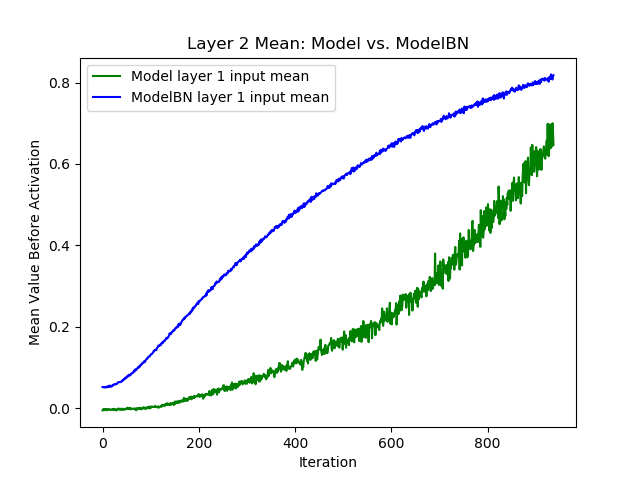
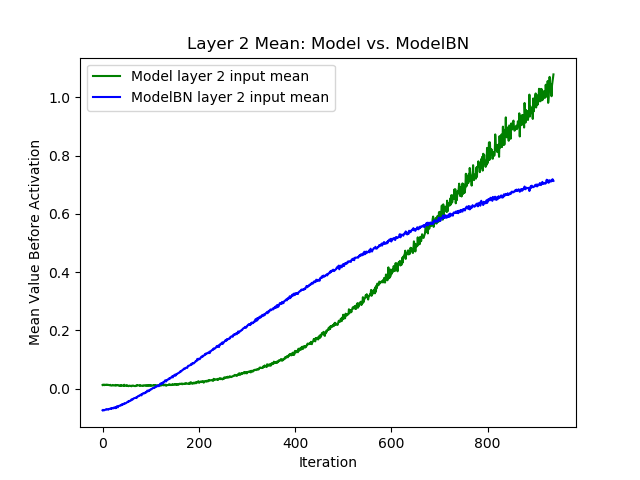
Fix legend on plot.

diff --git a/batch-norm/bn/run.py b/batch-norm/bn/run.py
@@ -19,8 +19,8 @@ plt.savefig('imgs/l1_mean.png')
 plt.close()
 
 # plot layer 2
-plt.plot(l2_mean, 'g', label='%s layer 1 input mean' % model_type)
-plt.plot(l2_mean_bn, 'b', label='%s layer 1 input mean' % model_type_bn)
+plt.plot(l2_mean, 'g', label='%s layer 2 input mean' % model_type)
+plt.plot(l2_mean_bn, 'b', label='%s layer 2 input mean' % model_type_bn)
 plt.title('Layer 2 Mean: %s vs. %s' % (model_type, model_type_bn))
 plt.ylabel('Mean Value Before Activation')
 plt.xlabel('Iteration')
